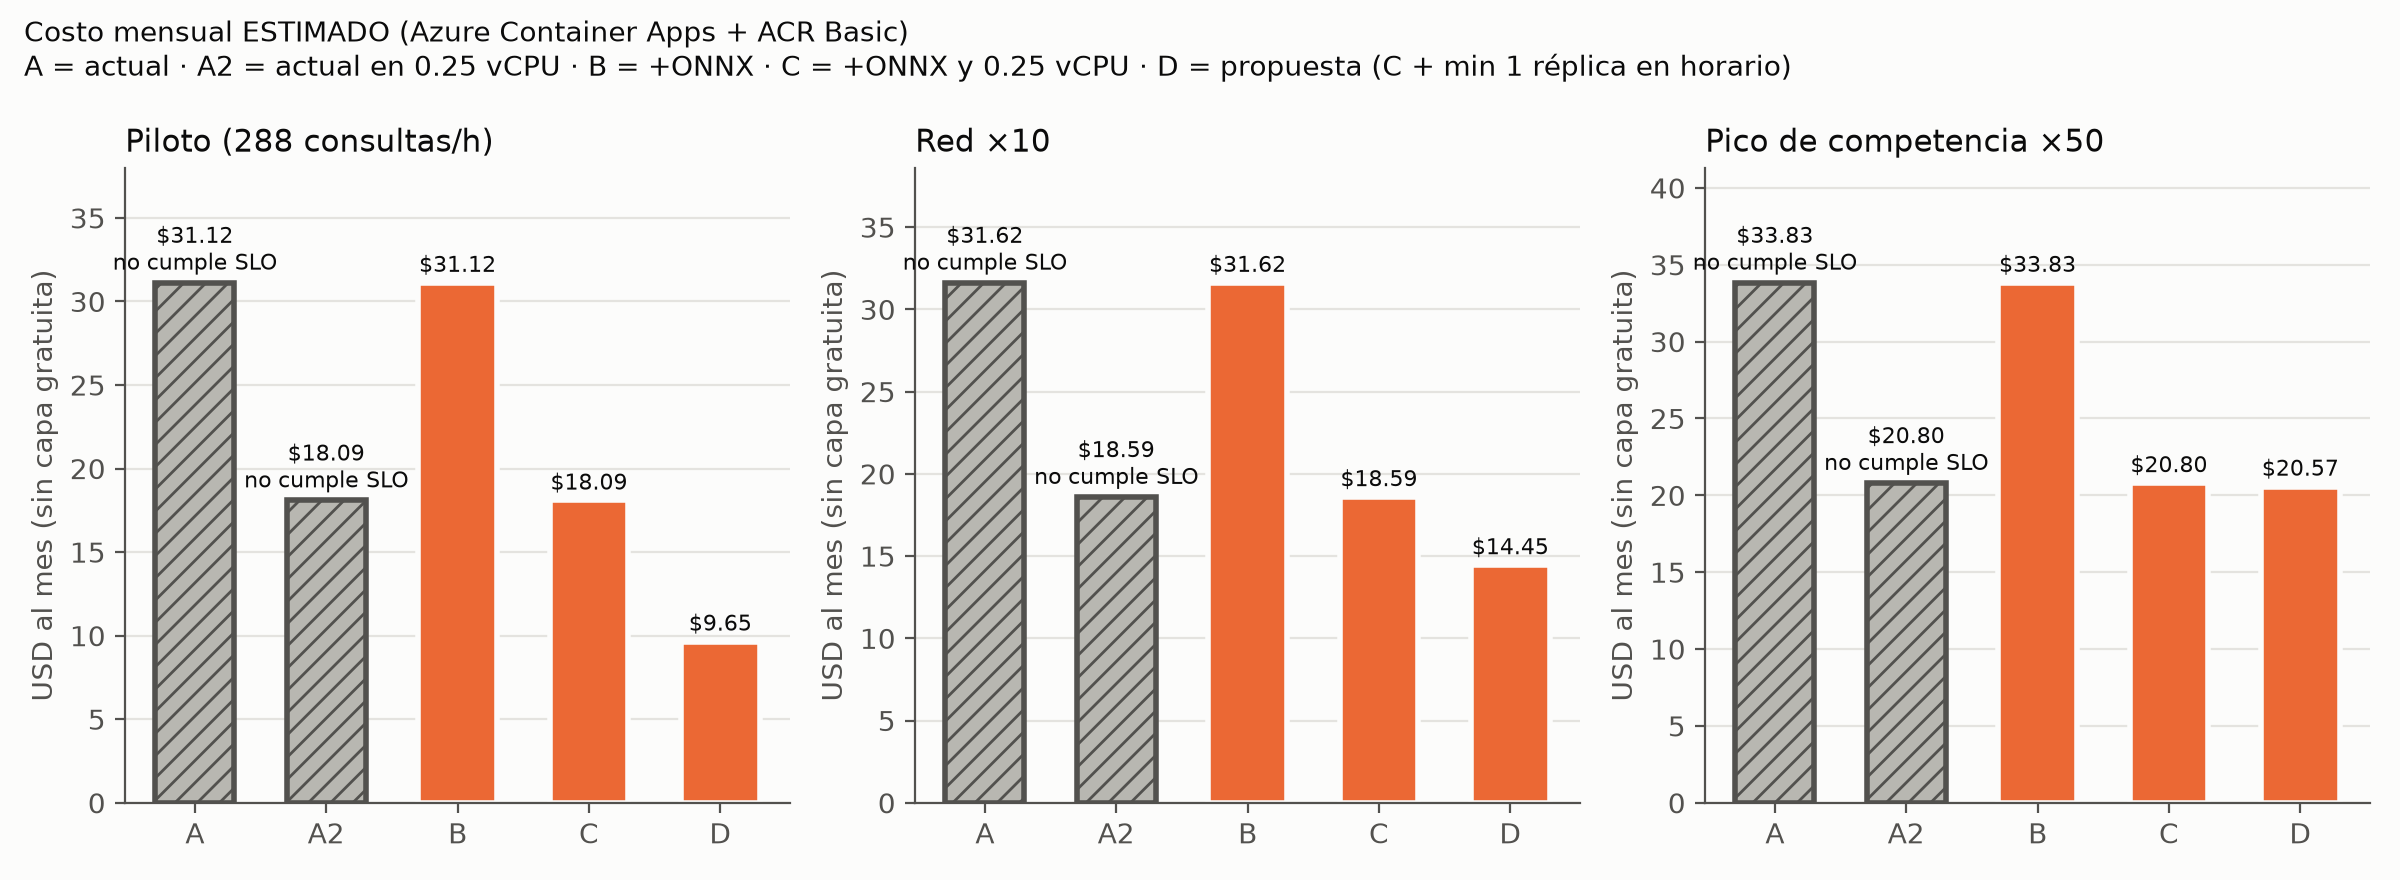
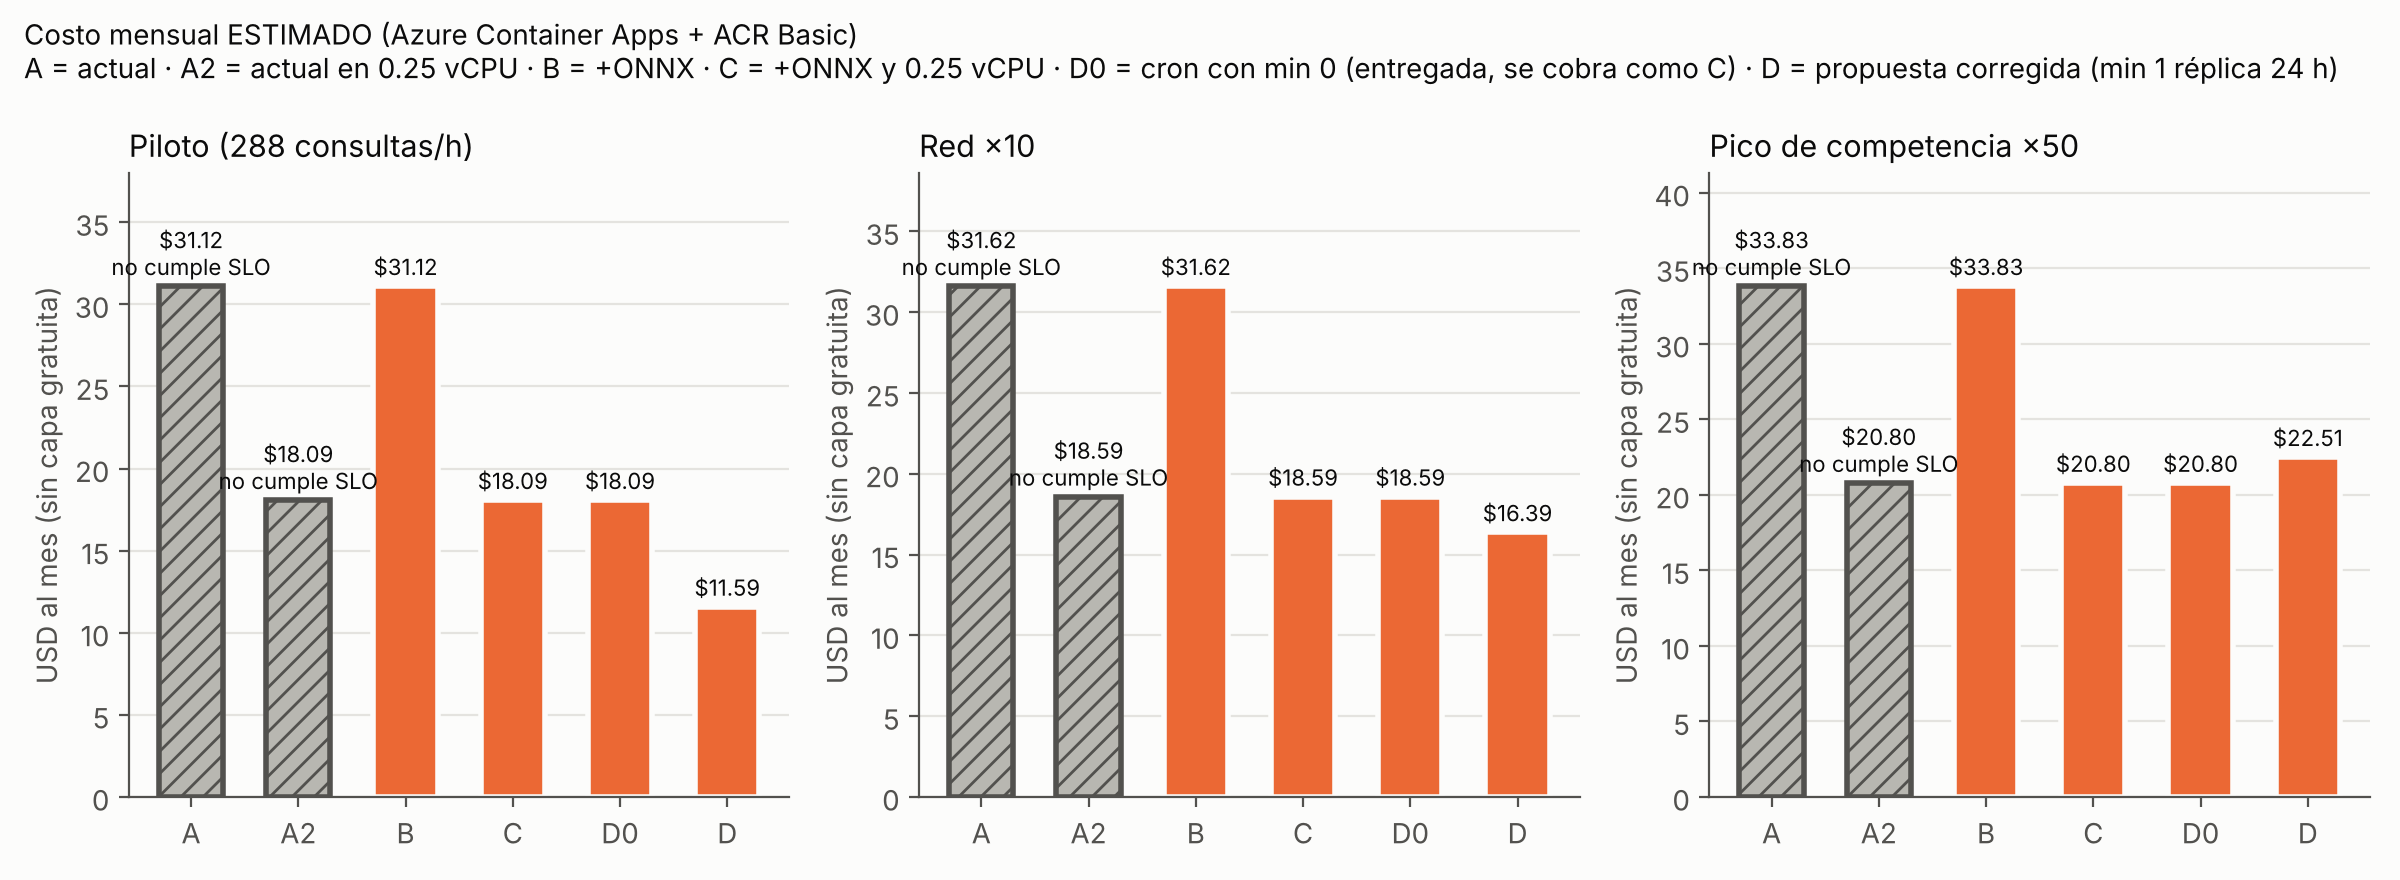
Corrige política de autoescalado y costos según retroalimentación

diff --git a/src/costos.py b/src/costos.py
@@ -17,7 +17,11 @@ Configuraciones comparadas (una palanca a la vez, para atribuir el ahorro):
   A2. Solo right-sizing SIN ONNX: imagen 1.0 en 0.25 vCPU (control: ¿se podía ahorrar sin optimizar?).
   B. + ONNX: imagen 2.0-onnx, mismo perfil y escalado.
   C. + ONNX + réplica de 0.25 vCPU / 0.5 GiB (right-sizing permitido por la medición).
-  D. Propuesta: C + mínimo de 1 réplica SOLO en horario de operación (regla cron) y 0 de noche.
+  D0. Versión entregada en la Actividad 9: C + regla cron de 1 réplica en horario con min = 0.
+      CORREGIDA tras la retroalimentación docente: la réplica que levanta la regla cron está POR ENCIMA
+      del mínimo configurado (0), así que Azure la cobra a tarifa activa. Cuesta lo mismo que C.
+  D. Propuesta corregida: C + minReplicas = 1 las 24 horas (sin regla cron). Es la única forma de que la
+     réplica cobre tarifa inactiva: en horario, en los segundos sin consultas; de noche, todo el tiempo.
 """
 import csv
 import json
@@ -54,9 +58,12 @@ def costo_mes(cfg, esc, precios, cap_rps, gratis):
         s_activos = replicas * (seg_operacion + ca["cooldown_s"] * dias)
         s_inactivos = 0
     else:
+        # Réplicas del mínimo configurado (minReplicas > 0): tarifa inactiva en los segundos sin consultas.
         base = cfg["min_replicas_operacion"]
         s_activos = base * seg_operacion * frac_activa + max(replicas - base, 0) * seg_operacion
         s_inactivos = base * seg_operacion * (1 - frac_activa)
+        # minReplicas aplica las 24 h: fuera de horario la réplica sigue encendida, sin consultas -> inactiva.
+        s_inactivos += base * (24 - esc["horas_operacion_por_dia"]) * 3600 * dias
     vcpu_s_act, gib_s_act = s_activos * cfg["vcpu"], s_activos * cfg["gib"]
     vcpu_s_ina, gib_s_ina = s_inactivos * cfg["vcpu"], s_inactivos * cfg["gib"]
     solicitudes = esc["solicitudes_por_hora"] * esc["horas_operacion_por_dia"] * dias
@@ -85,7 +92,9 @@ def main():
         {"id": "A2", "nombre": "Actual en 0.25 vCPU (sin ONNX)", "variante": "actual", "vcpu": 0.25, "gib": 0.5, "min_replicas_operacion": 0},
         {"id": "B", "nombre": "+ ONNX (palanca 1 y 2)", "variante": "optimizado", "vcpu": 0.5, "gib": 1.0, "min_replicas_operacion": 0},
         {"id": "C", "nombre": "+ réplica 0.25 vCPU (palanca 3)", "variante": "optimizado", "vcpu": 0.25, "gib": 0.5, "min_replicas_operacion": 0},
-        {"id": "D", "nombre": "Propuesta: C + min 1 réplica en horario (cron)", "variante": "optimizado", "vcpu": 0.25, "gib": 0.5, "min_replicas_operacion": 1},
+        # D0: la regla cron con min = 0 deja la réplica por encima del mínimo -> tarifa activa (igual que C).
+        {"id": "D0", "nombre": "Act. 9 entregada: C + cron con min 0 (se cobra como C)", "variante": "optimizado", "vcpu": 0.25, "gib": 0.5, "min_replicas_operacion": 0},
+        {"id": "D", "nombre": "Propuesta corregida: C + minReplicas 1 las 24 h", "variante": "optimizado", "vcpu": 0.25, "gib": 0.5, "min_replicas_operacion": 1},
     ]
     filas = []
     for cfg in configs:
@@ -117,9 +126,9 @@ def main():
     fase_i = precios["fase_i"]
     resumen = {
         "tipo": "ESTIMACIÓN con supuestos (config/precios_azure.yaml) a partir de mediciones locales; no es una factura",
-        "piloto_mensual_usd": {c: total(c, "piloto") for c in ("A", "A2", "B", "C", "D") if any(r["config"] == c for r in filas)},
-        "red_x10_mensual_usd": {c: total(c, "red_x10") for c in ("A", "A2", "B", "C", "D") if any(r["config"] == c for r in filas)},
-        "pico_competencia_mensual_usd": {c: total(c, "pico_competencia") for c in ("A", "A2", "B", "C", "D") if any(r["config"] == c for r in filas)},
+        "piloto_mensual_usd": {c: total(c, "piloto") for c in ("A", "A2", "B", "C", "D0", "D") if any(r["config"] == c for r in filas)},
+        "red_x10_mensual_usd": {c: total(c, "red_x10") for c in ("A", "A2", "B", "C", "D0", "D") if any(r["config"] == c for r in filas)},
+        "pico_competencia_mensual_usd": {c: total(c, "pico_competencia") for c in ("A", "A2", "B", "C", "D0", "D") if any(r["config"] == c for r in filas)},
         "piloto_anual_usd": {"actual": round(anual_actual, 2), "propuesta": round(anual_prop, 2)},
         "fase_i_presupuesto_computo_nube_anio1_usd": fase_i["computo_nube_anio1"],
         "fase_i_vs_propuesta": (f"La Fase I presupuestó USD {fase_i['computo_nube_anio1']:,} para cómputo en la nube con GPU; "
@@ -130,7 +139,8 @@ def main():
         "lectura": ("Con la carga del proyecto una sola réplica basta en todos los escenarios, así que el costo lo domina "
                     "el TIEMPO-RÉPLICA (tamaño x segundos encendida x tarifa), no la CPU por consulta. ONNX por sí solo "
                     "(B) no baja la factura; lo que la baja es el tamaño de réplica (C) y la política de réplicas "
-                    "mínimas (D). ONNX es lo que permite bajar a 0.25 vCPU sin romper el SLO en ráfaga (A2 no cumple)."),
+                    "mínimas (D): minReplicas = 1 las 24 h para que Azure aplique la tarifa inactiva. La regla cron "
+                    "con min = 0 de la versión entregada (D0) no la obtiene y cuesta lo mismo que C. ONNX es lo que permite bajar a 0.25 vCPU sin romper el SLO en ráfaga (A2 no cumple)."),
         "factor_utilizacion": FACTOR_UTILIZACION,
     }
     guardar_json("costos_resumen.json", resumen)

diff --git a/src/graficas.py b/src/graficas.py
@@ -98,7 +98,7 @@ def costos():
         ax.set_ylabel("USD al mes (sin capa gratuita)")
         ax.grid(axis="x", visible=False)
     fig.suptitle("Costo mensual ESTIMADO (Azure Container Apps + ACR Basic)\nA = actual · A2 = actual en 0.25 vCPU · "
-                 "B = +ONNX · C = +ONNX y 0.25 vCPU · D = propuesta (C + min 1 réplica en horario)", x=0.01, ha="left", fontsize=10, color=TINTA)
+                 "B = +ONNX · C = +ONNX y 0.25 vCPU · D0 = cron con min 0 (entregada, se cobra como C) · D = propuesta corregida (min 1 réplica 24 h)", x=0.01, ha="left", fontsize=10, color=TINTA)
     fig.tight_layout()
     fig.savefig(SALIDA / "costos_escenarios.png", dpi=200)
     plt.close(fig)

diff --git a/README.md b/README.md
@@ -8,11 +8,27 @@
 **Nombre del proyecto:** WODPredict-AI (Actividad 9. Escalabilidad, optimización de costos y gobernanza responsable)
 Este repositorio toma la API desplegada en la Etapa 4, que aquí es el **sistema actual** y no se modifica, y los SLO de la Etapa 5. Con eso **mide** el sistema actual, aplica tres palancas de optimización (ONNX Runtime, imagen ligera y right-sizing con política de réplicas), **vuelve a medir** con el mismo método, estima el costo en Azure Container Apps bajo principios FinOps y realiza una **auditoría ética, técnica y legal** con evaluación de fairness y un plan de escalamiento responsable por fases.
 
+> ### 🔧 Corrección posterior a la evaluación (retroalimentación docente, Actividad 9)
+>
+> **1. Autoescalado y facturación.** La versión entregada combinaba `min_replicas: 0` con una regla cron de 1 réplica en horario y suponía que esa réplica cobraba tarifa inactiva. Azure Container Apps solo aplica la tarifa inactiva a las réplicas del **mínimo configurado** (`minReplicas > 0`); la réplica que levanta la regla cron está por encima del mínimo y se cobra a tarifa activa. Esa política (D0) cuesta lo mismo que C: USD 18.09 al mes en el piloto, −42 % y no −69 %. Se corrigió [`politicas/autoscaling.yaml`](politicas/autoscaling.yaml) a `minReplicas: 1` las 24 horas, sin regla cron, y [`src/costos.py`](src/costos.py) ahora cobra también las horas de la noche a tarifa inactiva. Resultado: **USD 11.59 al mes (−63 % contra A)**.
+>
+> | Business case (3 años, USD) | Fase I | Entregado (D0 supuesto en 9.65) | Corregido (D = 11.59) |
+> |---|---|---|---|
+> | Inversión total | 83,400 | 74,147 | 74,217 |
+> | ROI acumulado | 64.3 % | 84.8 % | 84.6 % |
+> | Payback | 1.83 años | 1.60 años | 1.60 años |
+>
+> El ahorro de la política baja, pero el ROI casi no cambia: la nube pesa menos de 0.2 % de la inversión. La conclusión de fondo se mantiene (quitar la GPU de la Fase I es lo que mueve el ROI).
+>
+> **2. Incertidumbre del fairness.** El IC 95 % de la brecha de recall por nivel después de la mitigación va de 0.0163 a 0.1582: con 56 atletas de prueba **no hay evidencia de que se viole** el límite de 0.10, pero **tampoco se puede afirmar que se cumpla**. El veredicto correcto es "no concluyente". Para afirmarlo con un IC cuyo extremo superior quede bajo 0.10 se necesitan del orden de 8 a 9 veces más atletas por nivel (≈ 130 a 190 por nivel), lo que solo se alcanza con datos reales de varias sucursales.
+>
+> **3. Capacidad de los coaches.** La mitigación sube las falsas alarmas de 15.2 % a 19.9 % de las sesiones (élite: de 12.3 % a 23.6 %). Los criterios cuantitativos de aceptación para esa carga se definen en la Fase III (documento técnico de operación del repositorio `WODPredict-AI_Etapa-7_pipeline-mlops`).
+
 **Objetivo General:**
 Que el servicio que usa el coach para decidir la carga del día pueda crecer de una sucursal a toda la red de **UnderCover Fitness** **manteniendo el SLO** (p99 < 300 ms, también en ráfaga), **al menor costo posible** y con un modelo **justo, trazable y conforme** a los marcos de Responsible AI.
 
 **Contexto Profesional:**
-Iniciativa alineada al *Business Case* de UnderCover Fitness para reducir la deserción de atletas en un 25% derivada de lesiones por acumulación de fatiga. La Fase I presupuestó USD 9,600 al año en instancias GPU; con la carga real del proyecto (288 consultas por hora) el costo lo decide el **tiempo-réplica**, no la CPU por consulta, y la propuesta se estima en unos USD 116 al año. El modelo recomienda y el coach decide.
+Iniciativa alineada al *Business Case* de UnderCover Fitness para reducir la deserción de atletas en un 25% derivada de lesiones por acumulación de fatiga. La Fase I presupuestó USD 9,600 al año en instancias GPU; con la carga real del proyecto (288 consultas por hora) el costo lo decide el **tiempo-réplica**, no la CPU por consulta, y la propuesta se estima en unos USD 139 al año. El modelo recomienda y el coach decide.
 
 **Qué domina el costo.** El modelo es una regresión logística de 6 KB y una sola réplica basta en todos los escenarios. Por eso la factura es el tamaño de la réplica, por los segundos que está encendida, por la tarifa (activa o inactiva). El registro de imágenes (ACR Basic, ≈ USD 5 al mes) es un costo fijo.
 
@@ -22,7 +38,7 @@ Iniciativa alineada al *Business Case* de UnderCover Fitness para reducir la des
 |---|---|---|---|
 | 1 | **Inferencia con ONNX Runtime** | El mismo modelo v1.0.0 se ejecuta en ONNX Runtime y ya no pasa por pandas y scikit-learn en cada consulta | La CPU por consulta baja casi 9 veces, lo que da margen para la palanca 3 |
 | 2 | **Imagen ligera** | La imagen ya no instala pandas, scipy ni scikit-learn | Arranque en frío entre 41 y 53 % más rápido, la mitad de memoria y una imagen comprimida 35 % menor |
-| 3 | **Right-sizing y política de réplicas** | Réplica de 0.25 vCPU / 0.5 GiB con mínimo de 1 réplica solo en horario de los boxes (regla cron) y 0 de noche | Es lo que realmente baja la factura (ver Validación y Resultados) |
+| 3 | **Right-sizing y política de réplicas** | Réplica de 0.25 vCPU / 0.5 GiB con `minReplicas: 1` las 24 horas, sin regla cron (corregido, ver abajo) | Es lo que realmente baja la factura (ver Validación y Resultados) |
 
 **Palancas descartadas, con evidencia:**
 *   **Caché:** 0.00 % de consultas repetidas en las 16,498 sesiones de prueba.
@@ -62,7 +78,7 @@ Diagramas elaborados en Miro (tablero completo en `evidencias/07_Miro_Arquitectu
 
 **Política de escalado (`politicas/autoscaling.yaml`, documentada, no desplegada):**
 *   **Vertical:** 0.25 vCPU / 0.5 GiB. Se sube de perfil solo si el p99 sostenido supera 200 ms sin otra causa en las trazas.
-*   **Horizontal:** regla HTTP de KEDA con `concurrentRequests: 4` (medido: con 16 clientes la réplica de 0.25 vCPU ya no cumple el SLO), `max_replicas: 5` como tope de gasto, regla cron de 1 réplica de 04:45 a 21:15 (America/Mexico_City) y 0 de noche.
+*   **Horizontal:** regla HTTP de KEDA con `concurrentRequests: 4` (medido: con 16 clientes la réplica de 0.25 vCPU ya no cumple el SLO), `max_replicas: 5` como tope de gasto, `min_replicas: 1` las 24 horas y sin regla cron (corrección posterior a la evaluación).
 *   Para producción con datos reales se proponen 2 réplicas mínimas en zonas distintas.
 *   **Cliente con keep-alive:** la prueba L01 de la Etapa 4 abría una conexión HTTPS nueva por consulta. Es la causa probable del ≈ 1.1 s medido en Azure, pero es una **hipótesis**: no se puede medir con el despliegue apagado.
 
@@ -190,7 +206,7 @@ Abre http://localhost:8001/docs y http://localhost:8001/app. Para ver el consumo
 |---|---|---|
 | **Calidad** | Mismas decisiones que el modelo v1.0.0 en las 16,498 sesiones de prueba (56 atletas nunca vistos), \|Δp\| ≤ 1e-4 y recall ≥ 0.70 | ✅ 0 decisiones distintas, \|Δp\| máx. = 2.9e-7, recall 0.7324 (igual que la Etapa 4) |
 | **Desempeño** | SLO de la Etapa 5: p99 < 300 ms y errores ≤ 0.5 %, también en ráfaga de 4 consultas simultáneas (un coach que revisa a varios atletas antes de la clase) | ✅ Propuesta (0.25 vCPU): p99 96 ms con 1 cliente y 65 ms con 4. ❌ El sistema actual en su perfil de 0.5 vCPU tiene p99 de 481 ms con 4 clientes, y en 0.25 vCPU llega a 546 ms |
-| **Costo** | Costo mensual estimado ≤ al actual en el piloto, sin contar la capa gratuita | ✅ USD 9.65 contra USD 31.12 al mes (−69 %) |
+| **Costo** | Costo mensual estimado ≤ al actual en el piloto, sin contar la capa gratuita | ✅ USD 11.59 contra USD 31.12 al mes (−63 %). La versión entregada reportaba 9.65 (−69 %); ver la corrección |
 
 **Antes vs después:**
 
@@ -223,13 +239,14 @@ Abre http://localhost:8001/docs y http://localhost:8001/app. Para ver el consumo
 | A2. Actual en 0.25 vCPU (control sin ONNX) | ❌ en ráfaga | 18.09 | 18.59 | 20.80 |
 | B. + ONNX, mismo perfil | ✅ | 31.12 | 31.62 | 33.83 |
 | C. + ONNX y 0.25 vCPU | ✅ | 18.09 | 18.59 | 20.80 |
-| **D. Propuesta: C + min 1 réplica en horario (cron), 0 de noche** | ✅ | **9.65** | **14.45** | **20.57** |
+| D0. Versión entregada: C + regla cron con min 0 (se cobra como C) | ✅ | 18.09 | 18.59 | 20.80 |
+| **D. Propuesta corregida: C + `minReplicas: 1` las 24 h, sin cron** | ✅ | **11.59** | **16.39** | **22.51** |
 
 *   ONNX por sí solo (B) **no baja la factura**, porque con una réplica el costo es tiempo-réplica y no CPU. Lo que la baja es el tamaño de la réplica (C) y la política de réplicas mínimas (D).
 *   ONNX es la condición para cumplir el SLO en ráfaga, tanto en 0.25 como en 0.5 vCPU. El control A2 cuesta lo mismo que C, pero no cumple.
-*   Con una consulta cada 12.5 s la app nunca escala a 0 en horario. Con min = 0, toda la réplica se cobra a tarifa activa. Con min = 1, el 92 % de los segundos se cobra a tarifa inactiva, que en vCPU es 8 veces más barata.
+*   Con una consulta cada 12.5 s la app nunca escala a 0 en horario. Con min = 0, toda la réplica se cobra a tarifa activa. Con `minReplicas: 1`, el 92 % de los segundos del horario y toda la noche se cobran a tarifa inactiva, que en vCPU es 8 veces más barata. En el pico de competencia, con tráfico casi continuo, D cuesta más que C (22.51 contra 20.80) porque paga la noche: si el tráfico se vuelve continuo conviene volver a min 0.
 *   **Validación con la factura real:** Azure Cost Management registró USD 0.82 por los días que la Etapa 4 estuvo encendida en noviembre de 2026 (USD 0.79 de Container Registry ≈ 0.167 al día × 4.7 días, USD 0.03 de Container Apps), cubiertos por el crédito de Azure for Students. Confirma la tarifa del registro y que, con poca carga, el registro es la línea más grande.
-*   **Fase I:** el Excel presupuestó **USD 9,600** de "instancias GPU" para el año 1. La propuesta se estima en **unos USD 116 al año** sin capa gratuita.
+*   **Fase I:** el Excel presupuestó **USD 9,600** de "instancias GPU" para el año 1. La propuesta se estima en **unos USD 139 al año** sin capa gratuita (antes de la corrección: 116).
 
 **Gobernanza responsable:**
 
